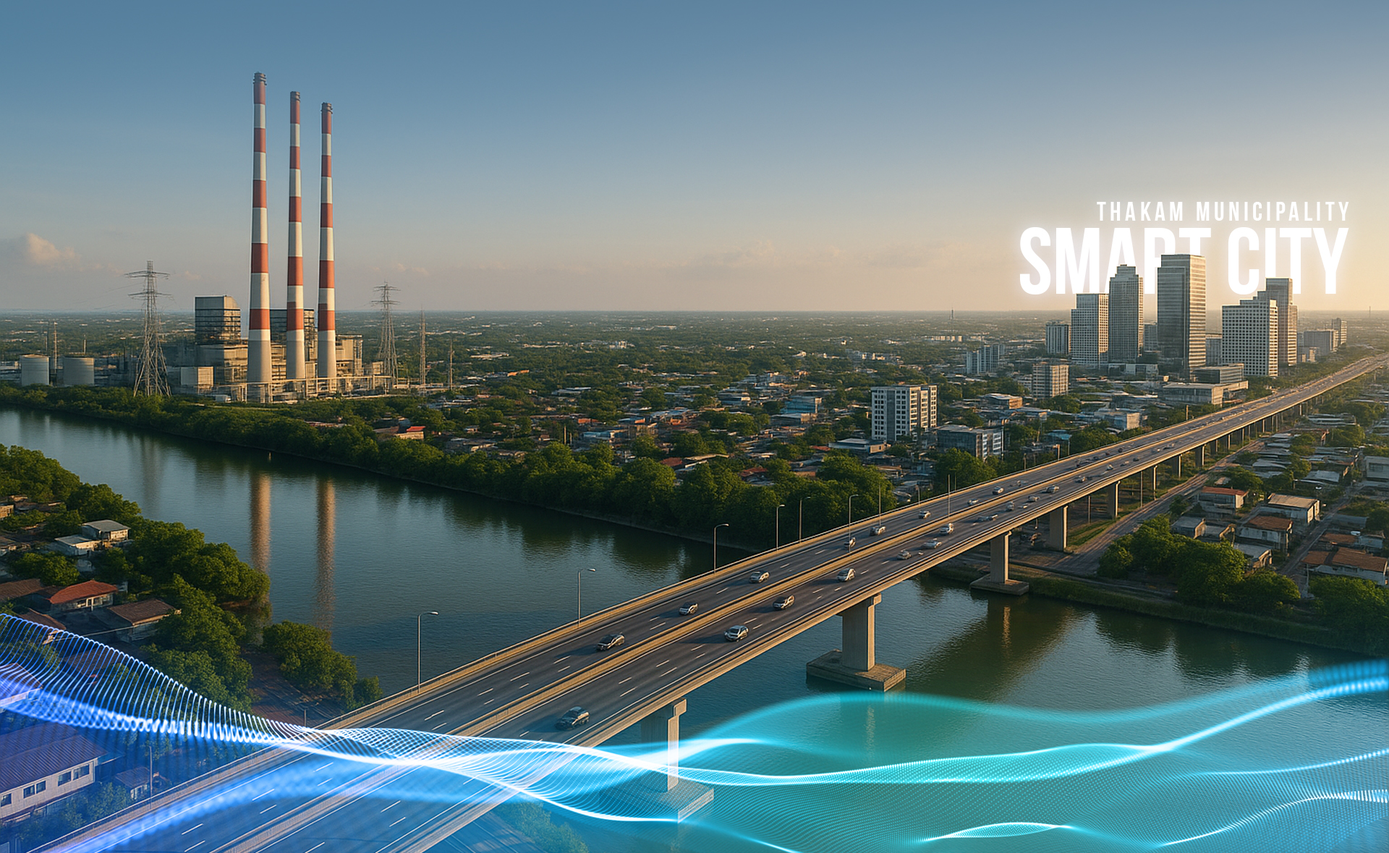
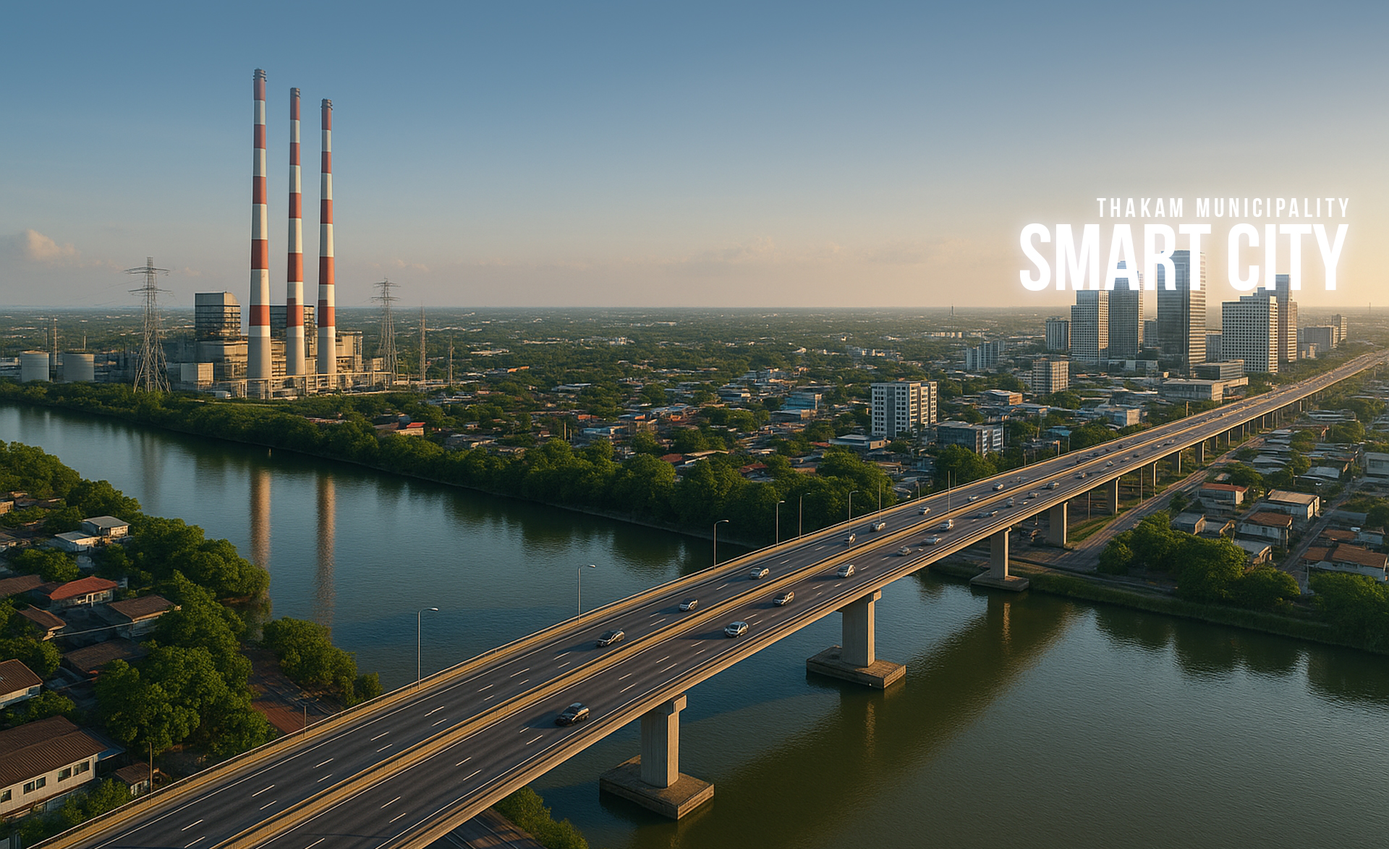
update view

diff --git a/public/css/template/home.css b/public/css/template/home.css
@@ -1639,3 +1639,23 @@ a.public-link {
     text-decoration: unset;
     font-weight: 900;
 }
+
+.activity-img {
+    position: relative;
+    display: inline-block;
+}
+
+.view-count {
+    position: absolute;
+    top: 7px;
+    right: 80px;
+    background: rgb(255 255 255 / 60%);
+    color: #000;
+    font-size: 14px;
+    padding: 5px 10px;
+    border-radius: 20px;
+    display: flex;
+    align-items: center;
+    gap: 5px;
+    backdrop-filter: blur(4px);
+}

diff --git a/resources/views/home.blade.php b/resources/views/home.blade.php
@@ -257,7 +257,8 @@
             </div>
             <div class="box-sbt-one">
                 <div class="smartcity-five">
-                    <a href="https://infocenter.oic.go.th/%E0%B9%80%E0%B8%97%E0%B8%A8%E0%B8%9A%E0%B8%B2%E0%B8%A5%E0%B8%95%E0%B8%B3%E0%B8%9A%E0%B8%A5%E0%B8%97%E0%B9%88%E0%B8%B2%E0%B8%82%E0%B9%89%E0%B8%B2%E0%B8%A1%20%E0%B8%88%E0%B8%B1%E0%B8%87%E0%B8%AB%E0%B8%A7%E0%B8%B1%E0%B8%94%E0%B8%89%E0%B8%B0%E0%B9%80%E0%B8%8A%E0%B8%B4%E0%B8%87%E0%B9%80%E0%B8%97%E0%B8%A3%E0%B8%B2/index.php?gid=0&mid=1012" class="">
+                    <a href="https://infocenter.oic.go.th/%E0%B9%80%E0%B8%97%E0%B8%A8%E0%B8%9A%E0%B8%B2%E0%B8%A5%E0%B8%95%E0%B8%B3%E0%B8%9A%E0%B8%A5%E0%B8%97%E0%B9%88%E0%B8%B2%E0%B8%82%E0%B9%89%E0%B8%B2%E0%B8%A1%20%E0%B8%88%E0%B8%B1%E0%B8%87%E0%B8%AB%E0%B8%A7%E0%B8%B1%E0%B8%94%E0%B8%89%E0%B8%B0%E0%B9%80%E0%B8%8A%E0%B8%B4%E0%B8%87%E0%B9%80%E0%B8%97%E0%B8%A3%E0%B8%B2/index.php?gid=0&mid=1012"
+                        class="">
                         <img src="/img/SmartCity/Banner-6.png" class="banner-box-sbt-one no-underline bbs-one"
                             style="margin: 0 0 0 175px;width: 350px;"></a>
                     <a href="#" class="">
@@ -444,6 +445,10 @@
                             <div class="card-activity-body">
 
                                 <div class="activity-img">
+                                    <div class="view-count">
+                                        👁 เข้าชม {{ $list->texteditor_view ?? 0 }} ครั้ง
+                                    </div>
+
                                     @if ($list->texteditor_topic_picture)
                                         <img src="{{ asset('storage/' . $list->texteditor_topic_picture) }}"
                                             alt="topic picture" width="420" style="border-radius: 20px">
@@ -476,12 +481,13 @@
                                 <div class="activity-date">{{ $day }} {{ $month }} {{ $year }}
                                 </div>
                                 {{-- <div class="activity-title">{{ $list->texteditor_title }}</div> --}}
-                                <div class="activity-title">{{ \Illuminate\Support\Str::limit($list->texteditor_title, 50) }}</div>
+                                <div class="activity-title">
+                                    {{ \Illuminate\Support\Str::limit($list->texteditor_title, 50) }}</div>
                                 {{-- <div class="activity-detail">{{ trim(strip_tags($list->texteditor_detail)) }}</div> --}}
                                 <div class="activity-detail">
                                     {!! \Illuminate\Support\Str::limit(trim(strip_tags($list->texteditor_detail)), 100) !!}
 
-                                    
+
                                 </div>
 
                             </div>
@@ -553,7 +559,7 @@
                                     <div class="news-title"><b>{{ $list->texteditor_title }}</b></div>
                                     {{-- <div class="news-detail">{{ trim(strip_tags($list->texteditor_detail)) }}</div> --}}
                                     <div class="news-detail">
-                                        
+
                                         {!! \Illuminate\Support\Str::limit(trim(strip_tags($list->texteditor_detail)), 100) !!}
 
                                     </div>
@@ -1104,7 +1110,7 @@
         </div>
     </section>
 
-   
+
 
     <script>
         function openTab(tabId) {

diff --git a/app/Http/Controllers/Directory/DirectoryDataController.php b/app/Http/Controllers/Directory/DirectoryDataController.php
@@ -52,6 +52,11 @@ class DirectoryDataController extends Controller
             ['name' => $title, 'url' => route('directory.data', ['menu' => $menuId])], // หน้า current
         ];
 
+
+        DB::table('texteditor')
+            ->where('texteditor_id', $Id)
+            ->increment('texteditor_view', 1);
+
         $list = DB::table('texteditor')
             ->leftJoin('texteditor_detail', 'texteditor.texteditor_id', '=', 'texteditor_detail.texteditor_id')
             ->where('texteditor.texteditor_id', $Id)
@@ -70,6 +75,8 @@ class DirectoryDataController extends Controller
                 ->where('texteditor_display', "A")
                 ->get()->toArray();
         }
+
+       
 
         return view('data.directory.detail', compact('title', 'menuId', 'list', 'file', 'breadcrumbs'));
     }
@@ -96,14 +103,14 @@ class DirectoryDataController extends Controller
         $titles = $this->myService->getDataByKey($menuId);
         $title = $titles ?? 'ข้อมูลเมนู' . $menuId;
 
-         $name_cat = Category::active()
+        $name_cat = Category::active()
             ->where('categories_id', $cateID)
             ->first();
 
         $breadcrumbs = [
             ['name' => 'หน้าแรก', 'url' => route('home')],
             ['name' => $title, 'url' => route('categories.list', ['menu' => $menuId])], // หน้า current
-            ['name' => $name_cat->categories_name, 'url' => route('categories.data', ['menu' => $menuId,'cate' => $cateID])], // หน้า current
+            ['name' => $name_cat->categories_name, 'url' => route('categories.data', ['menu' => $menuId, 'cate' => $cateID])], // หน้า current
         ];
 
         $list = Texteditor::active()
@@ -132,7 +139,7 @@ class DirectoryDataController extends Controller
         $breadcrumbs = [
             ['name' => 'หน้าแรก', 'url' => route('home')],
             ['name' => $title, 'url' => route('categories.list', ['menu' => $menuId])], // หน้า current
-            ['name' => $name_cat->categories_name, 'url' => route('categories.data', ['menu' => $menuId,'cate' => $cateID])], // หน้า current
+            ['name' => $name_cat->categories_name, 'url' => route('categories.data', ['menu' => $menuId, 'cate' => $cateID])], // หน้า current
         ];
 
         $list = DB::table('texteditor')

diff --git a/resources/views/data/directory/detail.blade.php b/resources/views/data/directory/detail.blade.php
@@ -53,6 +53,13 @@
                         @endif
                     @endforeach
                 </ol>
+                @if ($menuId == '51' || $menuId == '52')
+                    <ol class="breadcrumb custom-breadcrumb" style=" width: 70%;justify-content: flex-end;">
+                        <li class="breadcrumb-item">จำนวนผู้เข้าชม :
+                            {{ $list->texteditor_view ? $list->texteditor_view : 0 }}</li>
+                    </ol>
+                @endif
+
             </nav>
 
 
